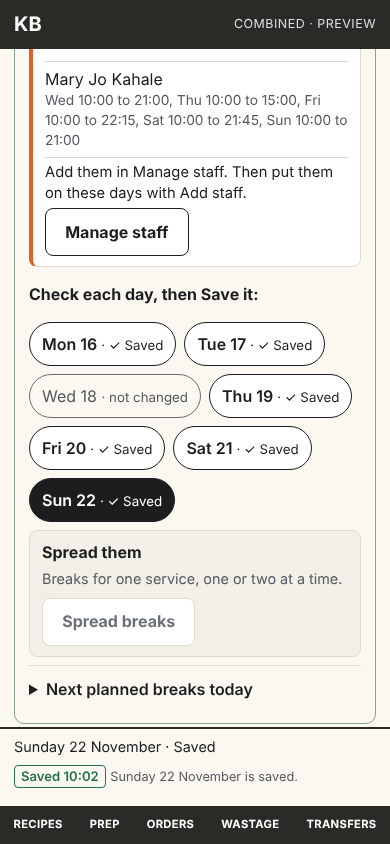
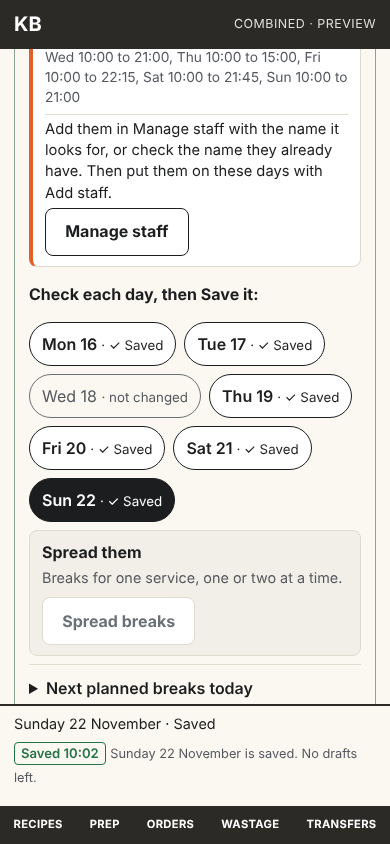
Roster import council: follow-up on the combined preview, fixes and recommendation
Claude-Session: https://claude.ai/code/session_01JKvQc1pJhbSiasxfDsmh3y

diff --git a/docs/roster-import-options/mix.js b/docs/roster-import-options/mix.js
@@ -15,13 +15,17 @@
   function fresh() { return { phase: 'start', fold: false, sel: -1, saved: {}, saving: {}, bad: false }; }
   var st = fresh();
   function esc(s) { return String(s).replace(/[&<>"']/g, function (c) { return { '&': '&amp;', '<': '&lt;', '>': '&gt;', '"': '&quot;', "'": '&#39;' }[c]; }); }
-  // Matched against the names already in the book: the given name, or the given name and the family initial.
-  // Exactly one book name must fit; anything else is listed, never guessed.
-  function bookName(p) {
+  // Head chef rule: the given name; two roster people with the same given name are looked for with the family
+  // initial ("Sam K"). Matched against the names already in the book: exactly one book name must fit, and no two
+  // roster people may land on the same book person. Anything else is listed, never guessed.
+  function want(p) {
     var parts = p.full.split(' '), given = parts[0], fam = parts[parts.length - 1];
-    var fits = BOOK.filter(function (n) { return n === given || n === given + ' ' + fam[0]; });
-    return fits.length === 1 ? fits[0] : '';
+    var twins = ROSTER.filter(function (q) { return q.full.split(' ')[0] === given; }).length > 1;
+    return { name: twins ? given + ' ' + fam[0] : given, alt: twins ? '' : given + ' ' + fam[0] };
   }
+  function fit(p) { var w = want(p), f = BOOK.filter(function (n) { return n === w.name || n === w.alt; }); return f.length === 1 ? f[0] : ''; }
+  var FIT = {}; ROSTER.forEach(function (p) { var n = fit(p); if (n) FIT[n] = (FIT[n] || 0) + 1; });
+  function bookName(p) { var n = fit(p); return n && FIT[n] === 1 ? n : ''; }
   var unmatched = ROSTER.filter(function (p) { return !bookName(p); });
   function onDay(d) { return ROSTER.filter(function (p) { return p.shifts[d] && bookName(p); }).map(function (p) { return { name: bookName(p), time: p.shifts[d][0], sv: p.shifts[d][1] }; }); }
   function isDraft(d) { return st.phase === 'read' && d !== SAVED_BEFORE && !st.saved[d]; }
@@ -40,14 +44,15 @@
     var drafts = [0, 1, 3, 4, 5, 6].filter(isDraft).length, saved = [0, 1, 3, 4, 5, 6].filter(function (d) { return st.saved[d]; }).length;
     var head = '<div class="ri-card"><h3>Roster 16 to 22 November</h3><p>' + (drafts ? drafts + ' day' + (drafts === 1 ? '' : 's') + ' filled as drafts, not saved yet.' : 'All filled days are saved.') + (saved ? ' ' + saved + ' saved.' : '') + '</p><p>Wednesday 18 November already had a saved plan. Not changed.</p><p>Breaks are not set on the filled days. Set them with Spread them below, then Save.</p></div>';
     var unm = '<div class="ri-card"><h3>Not in the book, not filled</h3><ul class="ri-rows mx-unm">' + unmatched.map(function (p) {
-      return '<li>' + esc(p.full) + '<span>' + Object.keys(p.shifts).map(function (d) { return DAY3[d] + ' ' + time(p.shifts[d][0]); }).join(', ') + '</span></li>';
-    }).join('') + '</ul><p>Add them in Manage staff. Then put them on these days with Add staff.</p><button type="button" class="btn" data-a="staff">Manage staff</button></div>';
+      return '<li>' + esc(p.full) + ' <small>(looks for ' + esc(want(p).name) + ')</small><span>' + Object.keys(p.shifts).map(function (d) { return DAY3[d] + ' ' + time(p.shifts[d][0]); }).join(', ') + '</span></li>';
+    }).join('') + '</ul><p>Add them in Manage staff with the name it looks for, or check the name they already have. Then put them on these days with Add staff.</p><button type="button" class="btn" data-a="staff">Manage staff</button></div>';
     var days = '<p><b>Check each day, then Save it:</b></p><div class="mx-days" role="group" aria-label="Days from the roster">' + DAYS.map(function (_, d) {
       if (d === SAVED_BEFORE) return '<button type="button" disabled>' + SHORT[d] + ' <small>· not changed</small></button>';
       return '<button type="button" data-a="day" data-d="' + d + '"' + (d === st.sel ? ' aria-current="date"' : '') + '>' + SHORT[d] + ' <small>· ' + (st.saved[d] ? '&#10003; Saved' : 'Draft') + '</small></button>';
     }).join('') + '</div>';
     return head + unm + days;
   }
+  function left() { var n = [0, 1, 3, 4, 5, 6].filter(isDraft).length; return n ? ' ' + n + ' day' + (n === 1 ? '' : 's') + ' still drafts.' : ' No drafts left.'; }
   function bad() { return '<div class="ri-card ri-bad" role="alert"><h3>This file cannot be used. Nothing was filled.</h3><p>The days in the file do not line up with the week it names.</p><p>Export the Weekly Department Roster Report from Humanforce again as CSV, then choose it here.</p></div>'; }
   function render() {
     var d = st.sel, name = d < 0 ? TODAY : DAYS[d], w = word(d), canSave = d >= 0 && isDraft(d) && !st.saving[d];
@@ -64,7 +69,7 @@
       (st.bad ? bad() : st.phase === 'read' ? result() : '') +
       '<div class="ri-tool"><b>Spread them</b><p>Breaks for one service, one or two at a time.</p><button type="button" class="btn" disabled>Spread breaks</button></div></details>' +
       '<details class="mx-fold"><summary>Next planned breaks today</summary></details></div></div>' +
-      '<div class="mx-band"><p>' + esc(name) + ' · ' + esc(w) + '</p>' + (d >= 0 && st.saved[d] ? '<span class="ri-stamp">Saved 10:02</span> <span class="ri-note">' + esc(DAYS[d]) + ' is saved.</span>' : '<button type="button" class="btn dark" data-a="save"' + (canSave ? '' : ' disabled') + '>' + (st.saving[d] ? 'Saving...' : 'Save ' + esc(name)) + '</button>') + '</div></div>' +
+      '<div class="mx-band"><p>' + esc(name) + ' · ' + esc(w) + '</p>' + (d >= 0 && st.saved[d] ? '<span class="ri-stamp">Saved 10:02</span> <span class="ri-note">' + esc(DAYS[d]) + ' is saved.' + left() + '</span>' : '<button type="button" class="btn dark" data-a="save"' + (canSave ? '' : ' disabled') + '>' + (st.saving[d] ? 'Saving...' : 'Save ' + esc(name)) + '</button>') + '</div></div>' +
       '<nav class="ri-tabs" aria-hidden="true"><span>RECIPES</span><span>PREP</span><span>ORDERS</span><span>WASTAGE</span><span>TRANSFERS</span></nav>';
   }
   root.addEventListener('click', function (e) {

diff --git a/docs/roster-import-options/brief.md b/docs/roster-import-options/brief.md
@@ -2,7 +2,7 @@
 
 14 November 2026, Queensland. Head chef request: fill Today's team from the Humanforce Weekly Department Roster Report (CSV export) while a read-only Humanforce API key is requested from Australian Venue Co IT. [Proposal](proposal.md), [evidence packet](evidence-packet.md). Role-based analysis, not research with staff.
 
-**Status: round 2 designs drawn and measured on previews. Council scoring next. Nothing built.**
+**Status: council done. Recommendation below, waiting on the head chef's choice. Nothing built.**
 
 ## Head chef answers after round 1 (14 November 2026)
 
@@ -177,4 +177,39 @@ Six fresh agents (the five council roles and the kitchen screen designer) scored
 | Day chips visible at the top of the result | 2 of 7 (the unmatched card comes first) | 7 day rows (not tappable) |
 | Page height after reading | 2,630 px | 2,154 px (schematic) |
 
-Review status: focused follow-up requested from the New starter, Keeper, Screen designer and Skeptic on the combined preview.
+After the follow-up (below) the preview's matcher and Save band were corrected and remeasured: 16 taps for 6 days; scrolling back to the chips 275 px the first time, then 1,234 to 1,553 px; no chips show at the top of the result because the two cards come first; page height 2,672 px.
+
+### Focused follow-up on the combined preview
+
+Review status: lead synthesis, then a focused follow-up from the four reviewers whose findings it answers. **All four prefer it to plain A**, with conditions.
+
+| Reviewer | Verdict on the mix | Condition or remaining issue |
+| --- | --- | --- |
+| New starter | Better than A | Say how many days are still drafts after a Save (fixed in the preview); the import still sits in the bottom fold; a chip can say Saved with no breaks; no chip state for a failed Save |
+| Kitchen screen designer | Better than A; contrast and corners fixed (5.05:1 computed, not rendered) | The chips are a second date picker. Move between days with the week list and keep the chips as status only. Two orange-edged cards compete |
+| Keeper of the book | Better than A, on one condition | Chips must call the existing day selection (`tmPlanSelect`) and use the week list's words, including Checking and Retry; otherwise drop them and use the date picker |
+| Skeptic | Better than A once the naming rule is back | The matcher had dropped the head chef's rule 3 (reproduced, now fixed in the preview); Manage staff can invite a nickname duplicate; still not shown to beat Copy last weekday |
+
+**Disagreement.** The screen designer would move between days only with the existing week list (22 taps, little scrolling) and keep the chips as a status line. The New starter, Keeper and Skeptic accept the chips as a jump if they reuse the planner's own selection and words.
+
+### Break-it findings from the follow-up
+
+| Scenario | Evidence | Disposition |
+| --- | --- | --- |
+| Two roster Sams land on the book's one "Sam" | **Reproduced** in the preview's matcher (node, made-up names) | Fixed in the preview: rule 3 restored and no two roster rows may land on one book person; checked in node with a one-Sam book. The converter needs the same test |
+| Unsaved roster drafts hold the 04:00 refresh on a shared tablet for days (`tmAnyDirty` counts every date) | Risk / Not evidenced, read in source | Carry into the build: a fake-clock test past two 04:00s; a rule for old drafts may need the head chef |
+| The shared idle lock or a refused week read leaves chips saying Draft | Risk / Not evidenced | Chips use the week list's Checking and Retry; click test for lock, unlock, chip and Save |
+| The Manage staff detour loses the drafts or adds a nickname twice | Risk / Not evidenced (the preview button does nothing) | The card names the book name it looks for (in the preview); click test import, Manage staff, Back |
+| Days saved without breaks show no break board | Risk / Not evidenced | Check Home and the break board on the stand-in for a day saved with no breaks |
+
+## Recommendation
+
+**Recommend the combined design: A's fill into the dated drafts and one Save band, plus C's tap-a-day chips, plus B's unmatched-first card**, with the fixes above: the head chef's naming rule against the book's names with no double landing, chips that call the planner's own day selection and words (Draft, Saved, Checking, Retry), "N days still drafts" after a Save, "Breaks are not set", and the exact name each unmatched person is looked for under.
+
+It beats A because one tap takes the chef to the day's real rows with roster times, and the card says what is left; it beats B and C because it keeps one review (the worksheet) and one dated Save. Relevant principles: Airbnb (who, when and status together), Duolingo (Draft is never Saved, in words), Todoist (never guess a name).
+
+**Main downside.** Breaks are still set by hand, and scrolling back to the chips after each Save costs about 1,200 to 1,550 px (Preview). Against Copy last weekday, which brings breaks, it may not save time unless the roster changes a lot week to week, which is still not measured.
+
+**Build order.** 1: the reader and converter alone, with node tests (no screen change). Use it privately on two real weeks to measure the week-to-week change; stop if the weeks mostly match. 2: the fill, card and chips in Today's team, with the click tests above and a complete-app measurement at 390, 768 and 1280 px.
+
+**Open for the head chef.** Choose the combined design, plain A, or stop. Whether the import may run on the shared tablet (the downloaded file keeps its wages). The file as a new data source is a change to the Team page C contract ("no new data source") and needs the head chef's OK. Chips as a jump or as status only.
